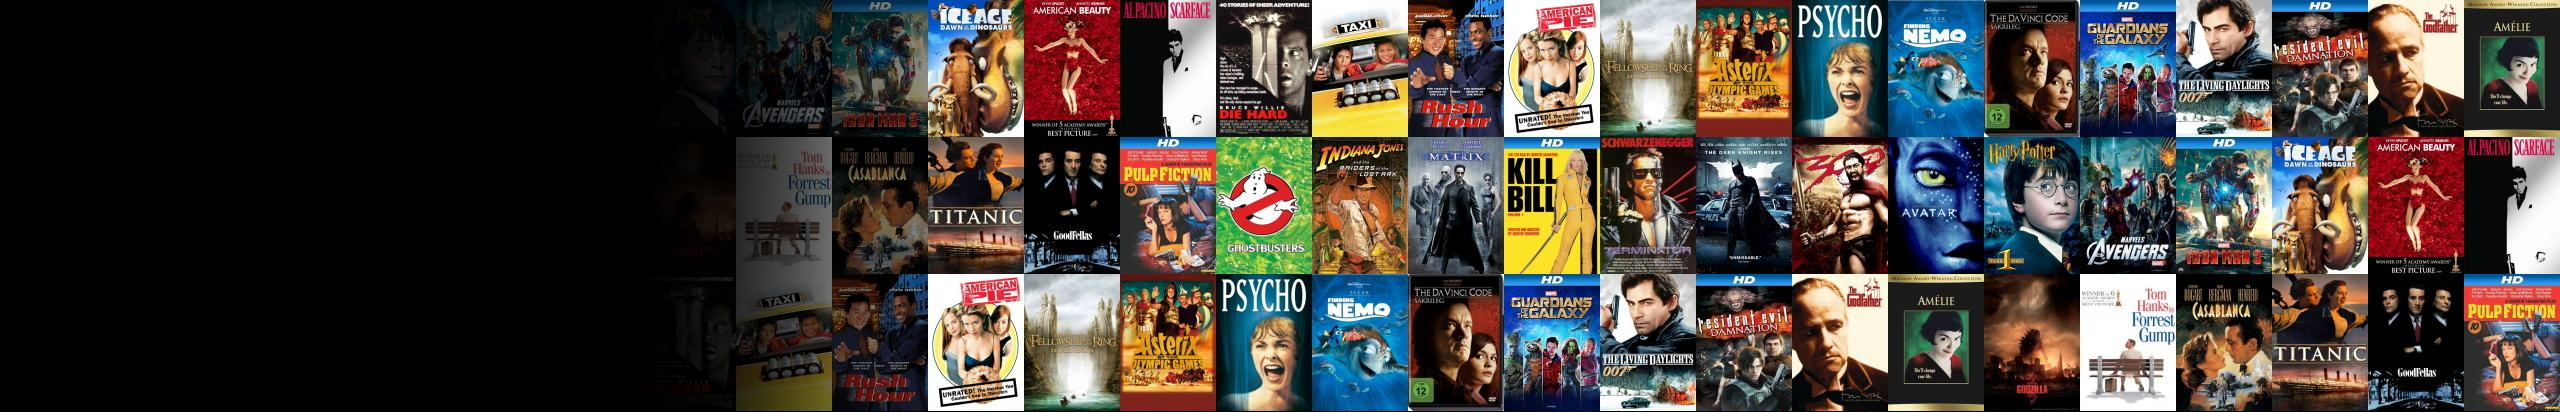
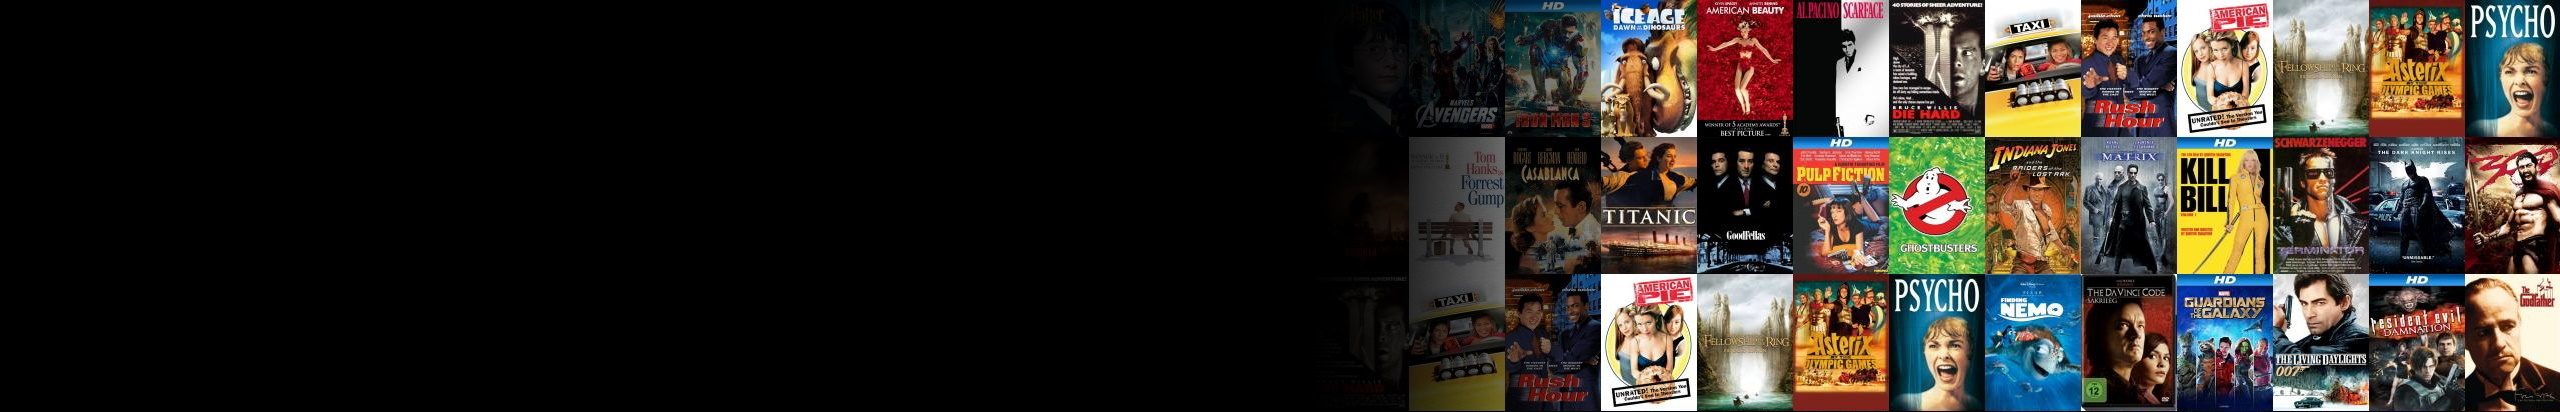
Change the appbar image

diff --git a/src/App.vue b/src/App.vue
@@ -5,7 +5,7 @@
       color="secondary"
       shrink-on-scroll
       prominent
-      src="./assets/movies2.jpg"
+      src="./assets/movies.jpg"
       fade-img-on-scroll
     >
       <v-toolbar-title>
@@ -13,34 +13,22 @@
       </v-toolbar-title>
 
       <template v-slot:extension>
-        <v-tabs v-model="currentPath" color="primary">
-          <v-tab
-            :to="{ name: 'movies' }"
-            class="secondary primary--text"
-            @click="filterByType = 'movie'"
-          >
+        <v-tabs v-model="currentPath">
+          <v-tab :to="{ name: 'movies' }" class="transparent primary--text">
             <v-icon v-if="$route.path.indexOf('movies') > -1">
               mdi-movie
             </v-icon>
             Movies
           </v-tab>
 
-          <v-tab
-            :to="{ name: 'series' }"
-            class="secondary primary--text"
-            @click="filterByType = 'series'"
-          >
+          <v-tab :to="{ name: 'series' }" class="transparent primary--text">
             <v-icon v-if="$route.path.indexOf('series') > -1">
               mdi-television-box
             </v-icon>
             Series
           </v-tab>
 
-          <v-tab
-            :to="{ name: 'games' }"
-            class="secondary primary--text"
-            @click="filterByType = 'game'"
-          >
+          <v-tab :to="{ name: 'games' }" class="transparent primary--text">
             <v-icon v-if="$route.path.indexOf('games') > -1">
               mdi-google-controller
             </v-icon>
@@ -65,10 +53,15 @@ export default {
   name: "App",
 
   data: () => ({
-    currentPath: null,
-    filterByType: "movie"
+    currentPath: null
   }),
 
   methods: {}
 };
 </script>
+
+<style scoped>
+.transparent {
+  background-color: rgba(0, 0, 0, 0);
+}
+</style>
